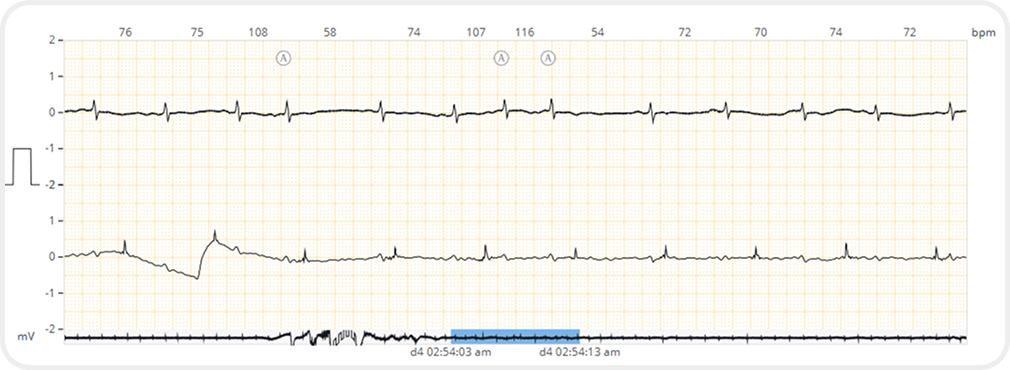
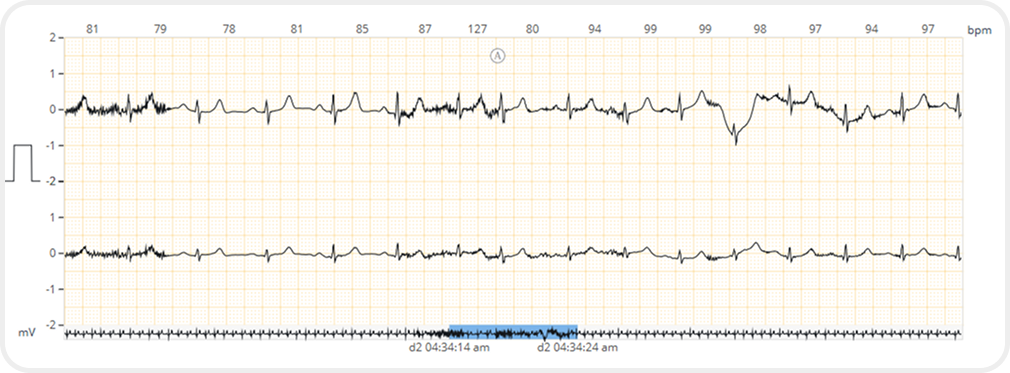
added answers for 050-075

Changed region(s): [[0.0, 0.0595, 0.9822, 0.9811]]

diff --git a/index.html b/index.html
@@ -117,7 +117,7 @@ header h1 span { color: var(--accent2); }
   display: flex;
   align-items: center;
   gap: 8px;
-  flex-wrap: ;
+  flex-wrap: nowrap;
 }
 .progress-wrap {
   display: flex;
